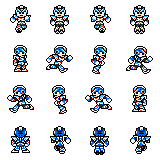
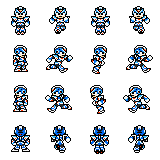
added sprite sheet for the enemies; improved the one for the player

diff --git a/script.js b/script.js
@@ -4,11 +4,12 @@ const GRID_SIZE = 18, // number of blocks per row and column
   CANVAS = document.getElementById("canvas"),
   CTX = CANVAS.getContext('2d'),
   BACKGROUND_COLOR = "#00af00",
+  ENEMIES_SPRITES = [],
   CYCLE_LOOP = [0, 1, 0, 2],
   FACING_DOWN = 0,
-  FACING_UP = 3,
+  FACING_RIGHT = 1,
   FACING_LEFT = 2,
-  FACING_RIGHT = 1;
+  FACING_UP = 3;
 
 CANVAS.width = BLOCK_SIZE * (GRID_SIZE + 1);
 CANVAS.height = BLOCK_SIZE * (GRID_SIZE + 1);
@@ -24,11 +25,7 @@ let walls = [],
   // seconds = 0,
   // minutes = 0;
   animationTime = 60,
-  loopIndex = 0,
-  x = 0,
-  y = 0,
-  currentDirection = FACING_DOWN,
-  playerSprite = new Image();
+  loopIndex = 0;
 
 /* functions */
 clearCase = function(x, y) {
@@ -75,17 +72,8 @@ gameOver = function() {
   }
 }
 
-drawFrame = function(img, frameX, frameY, canvasX, canvasY) {
-  CTX.drawImage(img, frameX * BLOCK_SIZE, frameY * BLOCK_SIZE, BLOCK_SIZE, BLOCK_SIZE, canvasX, canvasY, BLOCK_SIZE, BLOCK_SIZE);
-}
-
-// images
-megaman = function() {
-  playerSprite.onload = setInterval(function() {
-    player.drawPlayer();
-  }, animationTime);
-  playerSprite.src = "img/megaman.png";
-  return playerSprite;
+drawFrame = function(image, frameX, frameY, canvasX, canvasY) {
+  CTX.drawImage(image, frameX * BLOCK_SIZE, frameY * BLOCK_SIZE, BLOCK_SIZE, BLOCK_SIZE, canvasX, canvasY, BLOCK_SIZE, BLOCK_SIZE);
 }
 
 /* classes */
@@ -94,6 +82,19 @@ class Block {
     this.x = x;
     this.y = y;
     this.color;
+  }
+  sprite = function(path) {
+    let sprite = new Image(),
+      that = this;
+    sprite.onload = setInterval(function() {
+      that.draw();
+    }, animationTime);
+    sprite.src = path;
+    return sprite;
+  }
+  draw = function() {
+    // CTX.fillStyle = this.color;
+    drawFrame(this.image, CYCLE_LOOP[loopIndex], this.direction, this.x * BLOCK_SIZE, this.y * BLOCK_SIZE);
   }
   drawBlock = function() {
     CTX.fillStyle = this.color;
@@ -116,9 +117,11 @@ class Wall extends Block {
 class Player extends Block {
   constructor(x, y) {
     super(x, y);
-    this.image = megaman();
     // this.color = "#ffd700";
     // this.drawBlock();
+    this.image = this.sprite("img/megaman.png");
+    this.direction = FACING_DOWN;
+    this.draw();
     let that = this;
     document.onkeydown = function(event) {
       that.keyPressed(event);
@@ -126,10 +129,6 @@ class Player extends Block {
     this.power = 1;
     this.maxBombs = 1;
     this.activeBombs = 0;
-  }
-  drawPlayer = function() {
-    CTX.fillStyle = this.color;
-    drawFrame(this.image, CYCLE_LOOP[loopIndex], currentDirection, this.x * BLOCK_SIZE, this.y * BLOCK_SIZE);
   }
   dropDaBomb = function() {
     if (this.maxBombs <= this.activeBombs) return;
@@ -148,25 +147,25 @@ class Player extends Block {
 
       case 37: // left
         px--;
-        currentDirection = FACING_LEFT;
+        this.direction = FACING_LEFT;
         hasMoved = true;
         break;
 
       case 38: // up
         py--;
-        currentDirection = FACING_UP;
+        this.direction = FACING_UP;
         hasMoved = true;
         break;
 
       case 39: // right
         px++;
-        currentDirection = FACING_RIGHT;
+        this.direction = FACING_RIGHT;
         hasMoved = true;
         break;
 
       case 40: // bottom
         py++;
-        currentDirection = FACING_DOWN;
+        this.direction = FACING_DOWN;
         hasMoved = true;
         break;
 
@@ -178,8 +177,8 @@ class Player extends Block {
     }
 
     if (!hasMoved) {
-      currentLoopIndex = 0;
-      currentDirection = FACING_DOWN;
+      loopIndex = 0;
+      this.direction = FACING_DOWN;
     }
 
     if (hasMoved) {
@@ -230,7 +229,7 @@ class Player extends Block {
     this.x = px;
     this.y = py;
     // this.drawBlock();
-    this.drawPlayer();
+    this.draw();
   }
 }
 let player = new Player(0, 0);
@@ -238,8 +237,11 @@ let player = new Player(0, 0);
 class Enemy extends Block {
   constructor(x, y) {
     super(x, y);
-    this.color = "red";
-    this.drawBlock();
+    // this.color = "red";
+    // this.drawBlock();
+    this.image = this.sprite("img/enemy_01.png");
+    this.direction = FACING_DOWN;
+    this.draw();
   }
 }
 
@@ -474,29 +476,48 @@ enemyRandomMove = function() {
 
       fail++;
       let ex = enemies[i].x,
-        ey = enemies[i].y;
+        ey = enemies[i].y,
+        hasMoved = false;
 
       switch (minMaxRandom(0, 4)) {
 
         case 0: // left
           ex--;
+          enemies[i].direction = FACING_LEFT;
+          hasMoved = true;
           break;
 
         case 1: // up
           ey--;
+          enemies[i].direction = FACING_UP;
+          hasMoved = true;
           break;
 
         case 2: // right
           ex++;
+          enemies[i].direction = FACING_RIGHT;
+          hasMoved = true;
           break;
 
         case 3: // bottom
           ey++;
+          enemies[i].direction = FACING_DOWN;
+          hasMoved = true;
           break;
 
         default:
           continue;
       }
+
+      if (!hasMoved) {
+        loopIndex = 0;
+        enemies[i].direction = FACING_DOWN;
+        if (hasMoved) {
+          loopIndex++;
+          if (loopIndex >= CYCLE_LOOP.length) loopIndex = 0;
+        }
+      }
+
       // check border collision
       if (ex < 0) continue;
       if (ey < 0) continue;
@@ -554,7 +575,8 @@ enemyRandomMove = function() {
       clearCase(enemies[i].x, enemies[i].y);
       enemies[i].x = ex;
       enemies[i].y = ey;
-      enemies[i].drawBlock();
+      // enemies[i].drawBlock();
+      enemies[i].draw();
       break;
     }
   }
